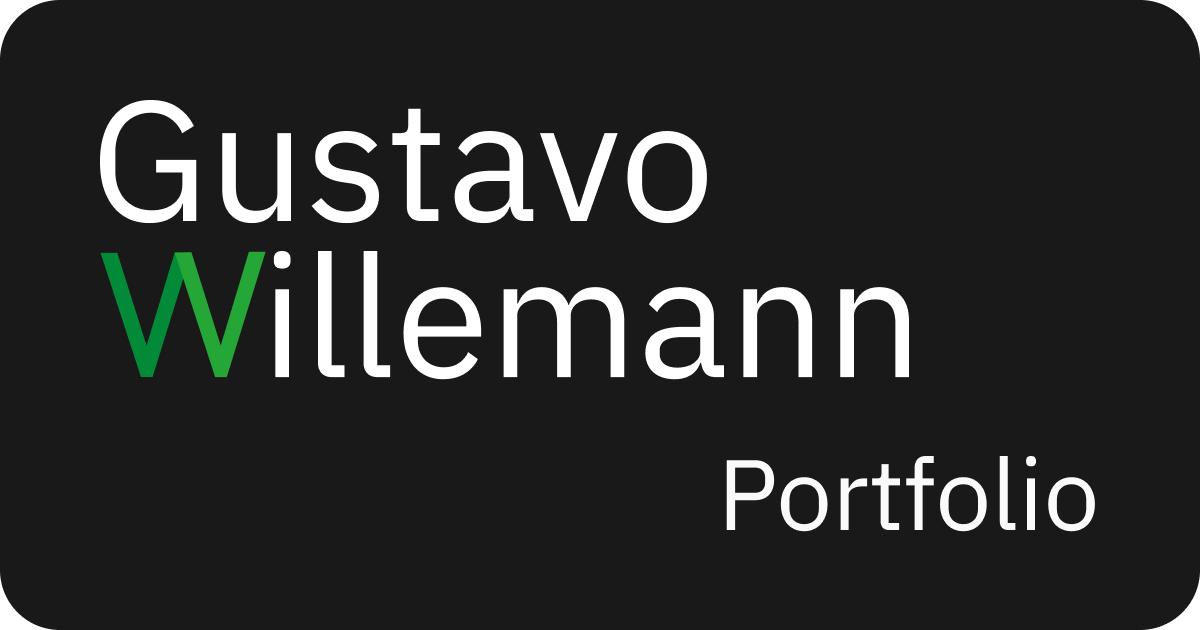
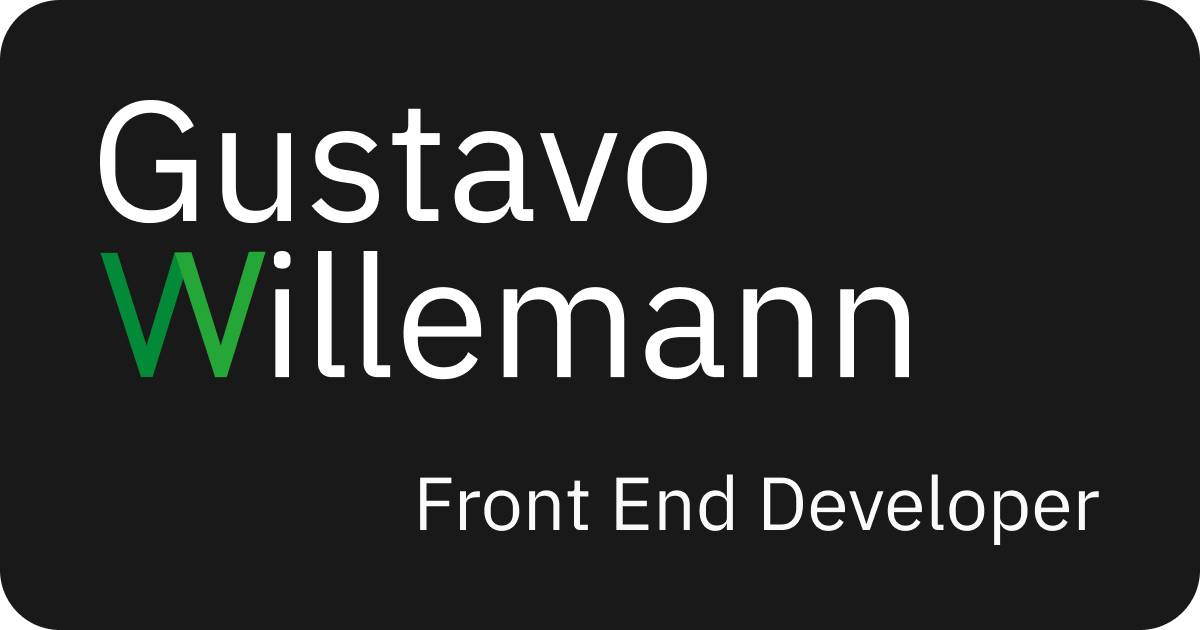
feat(SEO): meta tags updated

Changed region(s): [[0.3392, 0.7238, 0.925, 0.8444]]

diff --git a/src/components/Meta/SEO/index.tsx b/src/components/Meta/SEO/index.tsx
@@ -7,8 +7,14 @@ type SEOProps = { pageTitle?: string };
 export default function SEO({ pageTitle }: SEOProps) {
   const router = useRouter();
   const { t } = useTranslation({
-    en: { description: "Gustavo Willemann's portfolio"},
-    pt: { description: 'Portfólio de Gustavo Willemann'},
+    en: {
+      description: "Front-end developer portfolio and articles",
+      siteCardAlt: "Card that reads Gustavo Willemann - Front-end developer"
+    },
+    pt: {
+      description: 'Portfólio e artigos de desenvolvimento Front-end',
+      siteCardAlt: 'Cartão onde se lê Gustavo Willemann - Desenvolvedor front-end'
+    },
   });
   
   const { locale } = router;
@@ -23,6 +29,7 @@ export default function SEO({ pageTitle }: SEOProps) {
       <title>{title}</title>
       <meta name="title" content={title} />
       <meta name="description" content={t('description')} />
+      <meta name="theme-color" content="black" />
       <link rel="icon" href="/logo.svg" />
 
       {/* Open Graph / Facebook */}
@@ -31,6 +38,9 @@ export default function SEO({ pageTitle }: SEOProps) {
       <meta property="og:title" content={title} />
       <meta property="og:description" content={t('description')} />
       <meta property="og:image" content={imagePath} />
+      <meta property="og:image:alt" content={t('siteCardAlt')} />
+      <meta property="og:image:width" content="1200" />
+      <meta property="og:image:height" content="630" />
 
       {/* Twitter */}
       <meta property="twitter:card" content="summary_large_image" />
@@ -38,6 +48,9 @@ export default function SEO({ pageTitle }: SEOProps) {
       <meta property="twitter:title" content={title} />
       <meta property="twitter:description" content={t('description')} />
       <meta property="twitter:image" content={imagePath} />
+      <meta property="twitter:image:alt" content={t('siteCardAlt')} />
+      <meta property="twitter:image:width" content="1200" />
+      <meta property="twitter:image:height" content="630" />
     </Head>
   );
 }
